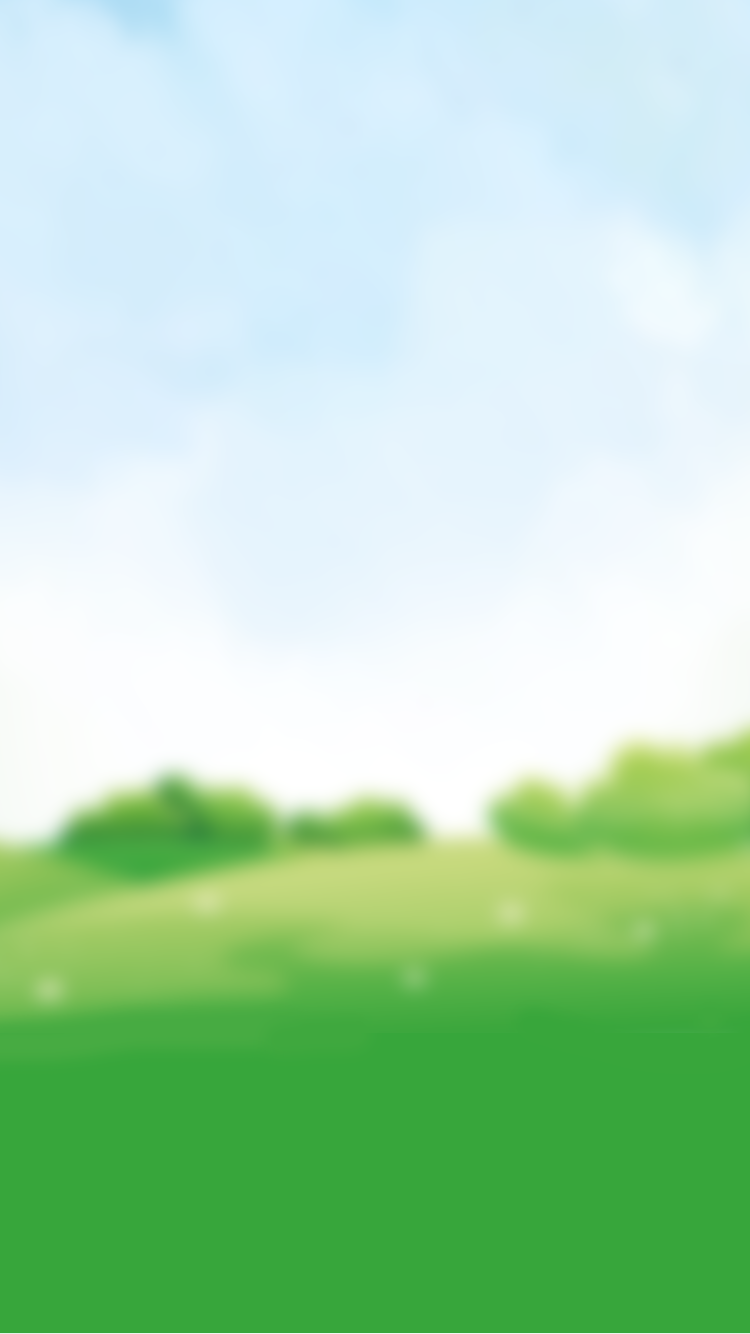
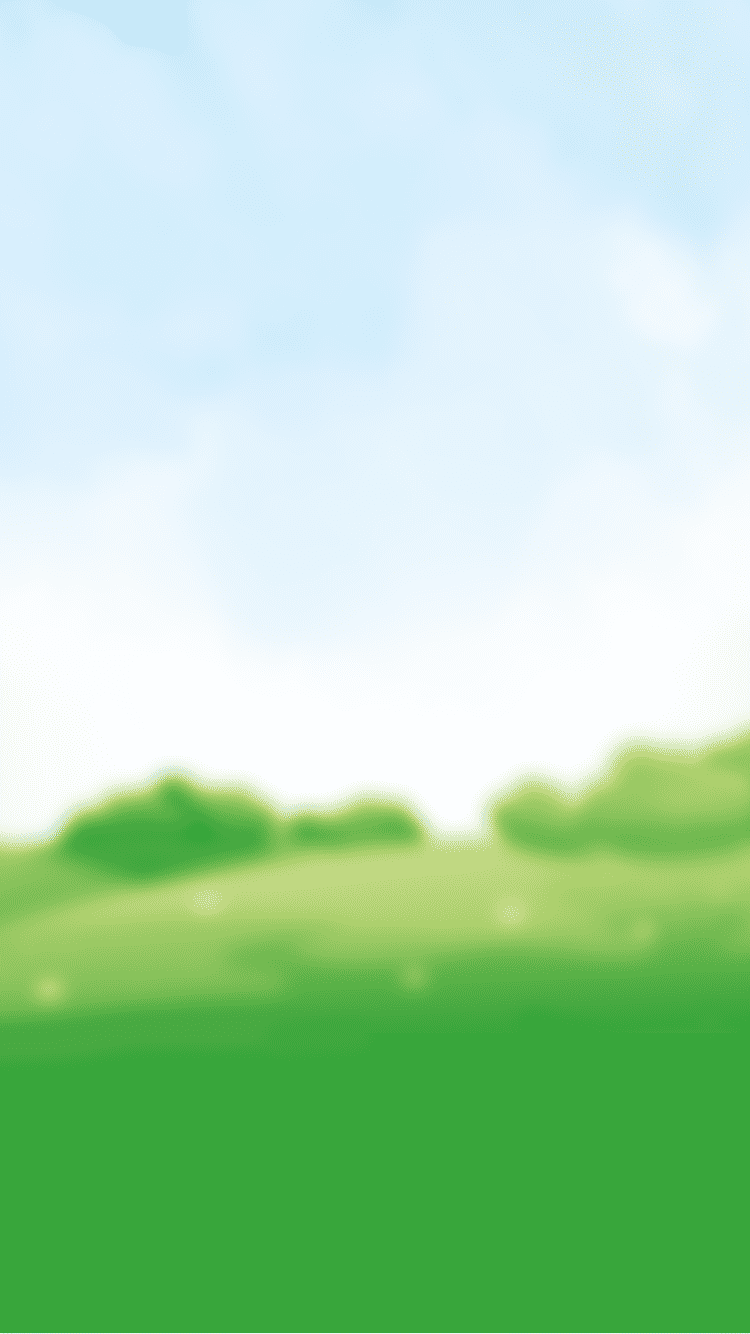
'动态切换背景显示'

diff --git a/src/App.vue b/src/App.vue
@@ -6,7 +6,7 @@
     <introduction :stageClass="stageClass" :area="area"></introduction>
     <div class="icon">
       <router-link v-show="stage == 5" :to="'/cert/' + patent" class="left" tag="div"></router-link>
-      <router-link to="/about" class="right" tag="div"></router-link>
+      <router-link to="/about" class="right" tag="div" @click.native="showAboutFun"></router-link>
     </div>
     <main>
       <div class="plant">
@@ -58,6 +58,13 @@
         </div>
       </div>
     </footer>
+    <div class="bg">
+      <img v-if="showChangeBg" :src="bgReplace" alt />
+      <transition>
+        <img v-show="!changeBg" :src="bg" alt />
+      </transition>
+      <img v-show="showBlurBg" src="./assets/img/blur_bg.png" alt />
+    </div>
   </div>
 </template>
 
@@ -68,12 +75,15 @@ export default {
   components: { introduction },
   created() {
     let search = window.location.search.slice(1),
-      { area, stage, sign, patent } = this.getParams(search);
+      { area, stage, sign, patent } = this.getParams(search); // String类型
 
     // 当要播放动画(即要进行浇水动作)的时候 且不是第一阶段 则当前显示阶段要换成stage-1 浇水后变成stage
-    if (sign && stage != 1) {
+    if (sign == "true" && stage != 1) {
       stage--;
+      this.showChangeBg = true;
+      this.bgReplace = this.bgArr[stage];
     }
+    this.bg = this.bgArr[stage - 1];
     this.area = area;
     this.stage = stage;
     this.sign = sign;
@@ -84,7 +94,7 @@ export default {
   },
   mounted() {
     // sign为true 播放浇水动画
-    if (this.sign) {
+    if (this.sign == "true") {
       let stage = this.stage;
       setTimeout(() => {
         this.wateringFun();
@@ -93,11 +103,22 @@ export default {
   },
   data() {
     return {
+      bgArr: [
+        require("./assets/img/seed_bg.png"),
+        require("./assets/img/sprout_bg.png"),
+        require("./assets/img/branch_bg.png"),
+        require("./assets/img/tree_bg.png")
+      ],
+      bg: "",
+      bgReplace: "",
+      showChangeBg: false,
+      changeBg: false,
+      showBlurBg: false,
       area: 1, // 当前区域
       stage: 1, // 将到达的目标阶段
       sign: true, // 当前是否播放动画
       patent: 0, // 证书编号
-      growth: 0,
+      growth: 0, // 初始化成长值
       potActive: false, // 控制浇水壶显示
       wateringShow1: 0, // 控制水滴1显示
       wateringShow2: 0, // 控制水滴2显示
@@ -176,6 +197,7 @@ export default {
               stage++;
               this.stage = stage;
               this.growthFun(stage - 1, stage);
+              this.changeBg = true;
             }, 2000);
           }
         });
@@ -192,6 +214,9 @@ export default {
             clearInterval(timer);
           }
         }, 50);
+    },
+    showAboutFun() {
+      this.showBlurBg = true;
     }
   }
 };
@@ -239,21 +264,21 @@ export default {
   background-size: 100% 100%;
   transition: all 5s linear;
   &.stage1 {
-    background-image: url("./assets/img/seed_bg.png");
+    // background-image: url("./assets/img/seed_bg.png");
     .watering {
       right: 20px;
       bottom: 60px;
     }
   }
   &.stage2 {
-    background-image: url("./assets/img/sprout_bg.png");
+    // background-image: url("./assets/img/sprout_bg.png");
     .watering {
       right: 20px;
       bottom: 90px;
     }
   }
   &.stage3 {
-    background-image: url("./assets/img/branch_bg.png");
+    // background-image: url("./assets/img/branch_bg.png");
     .watering {
       right: 35px;
       bottom: 150px;
@@ -267,7 +292,7 @@ export default {
   }
   &.stage4,
   &.stage5 {
-    background-image: url("./assets/img/tree_bg.png");
+    // background-image: url("./assets/img/tree_bg.png");
   }
 
   .icon {
@@ -461,6 +486,23 @@ export default {
           }
         }
       }
+    }
+  }
+  .bg {
+    position: absolute;
+    top: 0px;
+    left: 0px;
+    width: 100%;
+    height: 100%;
+    text-align: center;
+    font-size: 0;
+    z-index: -10;
+    overflow: hidden;
+    img {
+      position: absolute;
+      top: 0px;
+      left: 0px;
+      height: 100%;
     }
   }
 }

diff --git a/src/views/About.vue b/src/views/About.vue
@@ -20,6 +20,7 @@ export default {
   methods: {
     back() {
       this.$router.back();
+      this.$parent.showBlurBg = false;
     }
   }
 };
@@ -35,7 +36,7 @@ export default {
   z-index: 10;
   // background: #fff;
   background-image: url('../assets/img/blur_bg.png');
-  background-size: 100%;
+  background-size: cover;
   background-position: top center;
   .introduction {
     width: 100%;
@@ -48,15 +49,17 @@ export default {
         padding: 0 2%;
         border: 1px solid rgba(60, 212, 0, 0.3);
         border-radius: 6px;
+        overflow: scroll;
         p {
           color: #4c4c4c;
           font-size: 14px;
           margin-top: 12px;
           text-indent: 2em;
+          padding: 0px;
         }
       }
       .back {
-        width: 112px;
+        width: 40%;
         height: 20%;
         margin: 0 auto;
         padding-top: 8%;
